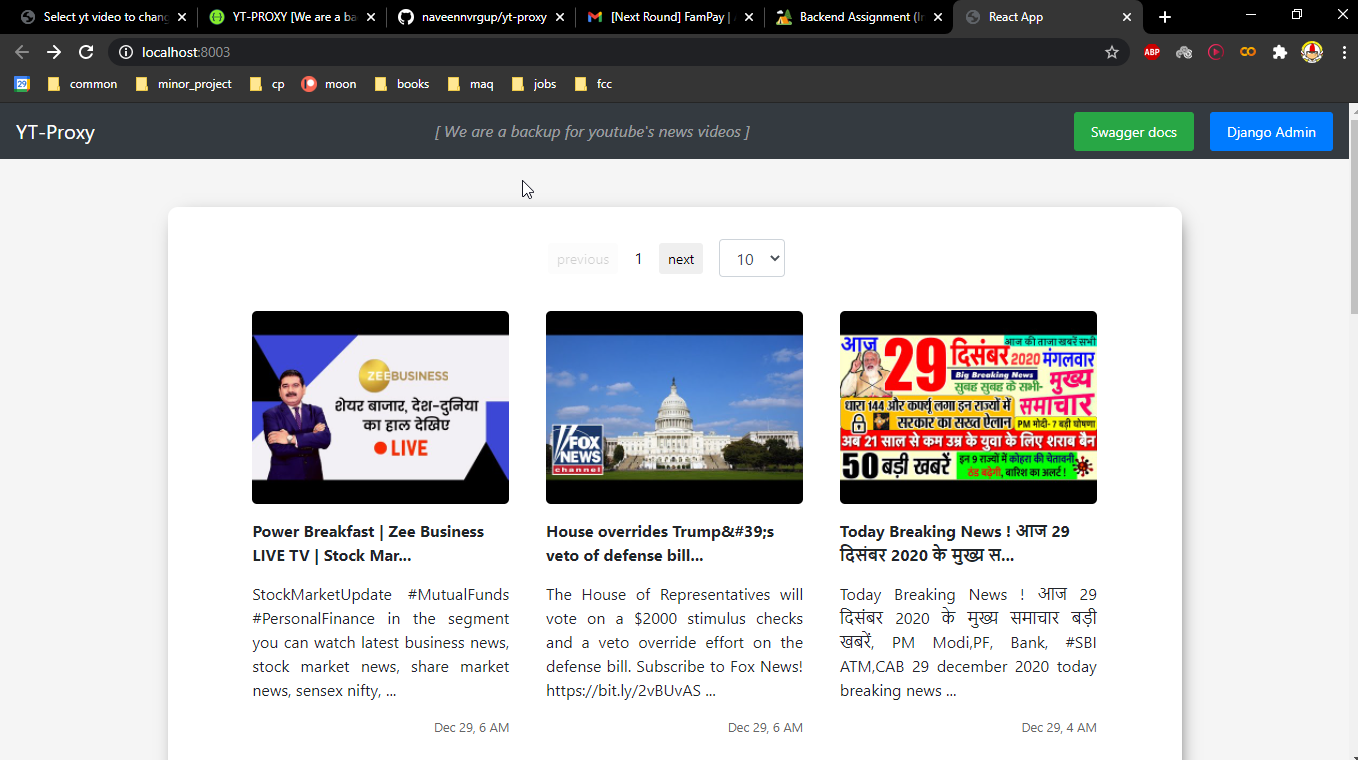
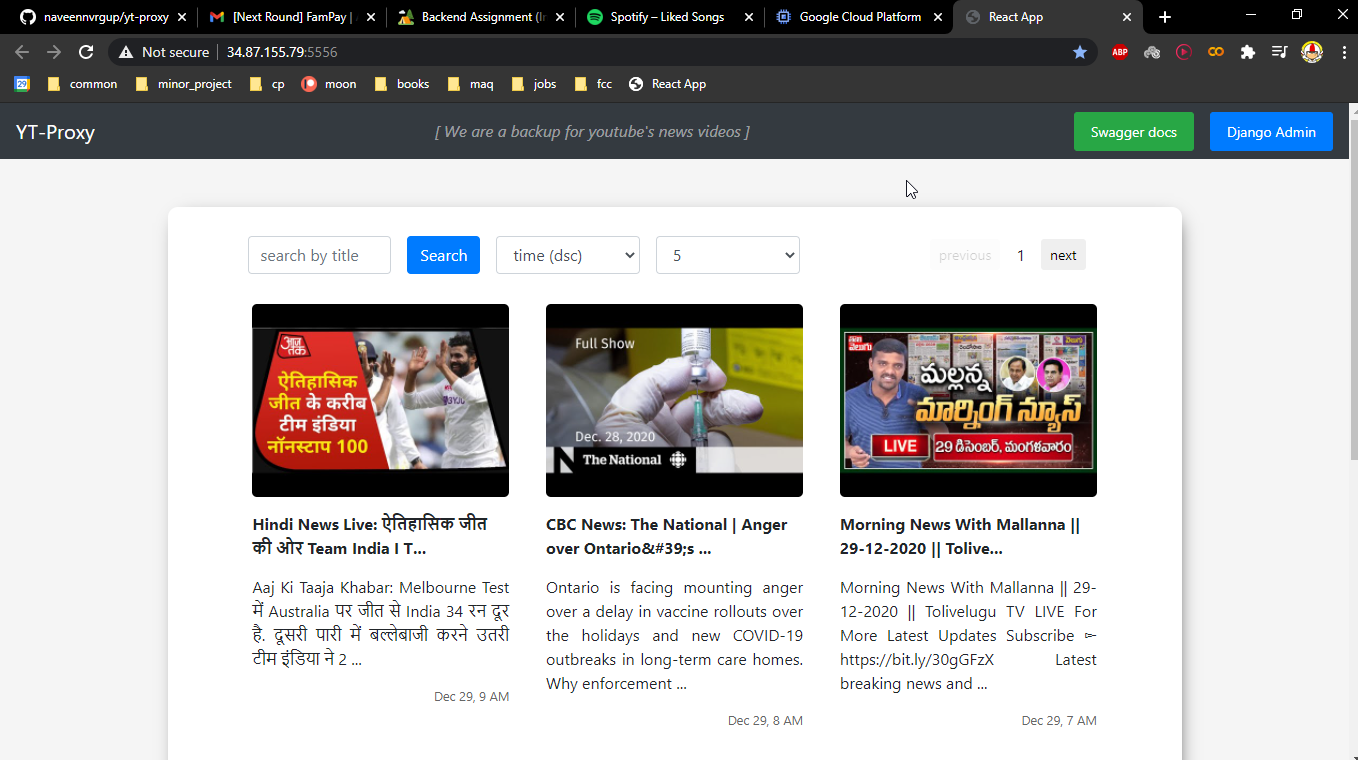
docs: update readme

diff --git a/README.md b/README.md
@@ -12,7 +12,7 @@
 - Server calls the YouTube API continuously in background (async) with interval of 10 seconds for fetching the latest videos for a predefined search query.
 - A GET API which returns the stored video data in a paginated response sorted in descending order of published datetime.
 - Support for supplying multiple API keys so that if quota is exhausted on one, it automatically uses the next available key. 
-- A dashboard to view the stored videos.
+- A dashboard to view the stored videos with filtering and sorting options.
 
 
 ### Run Backend
